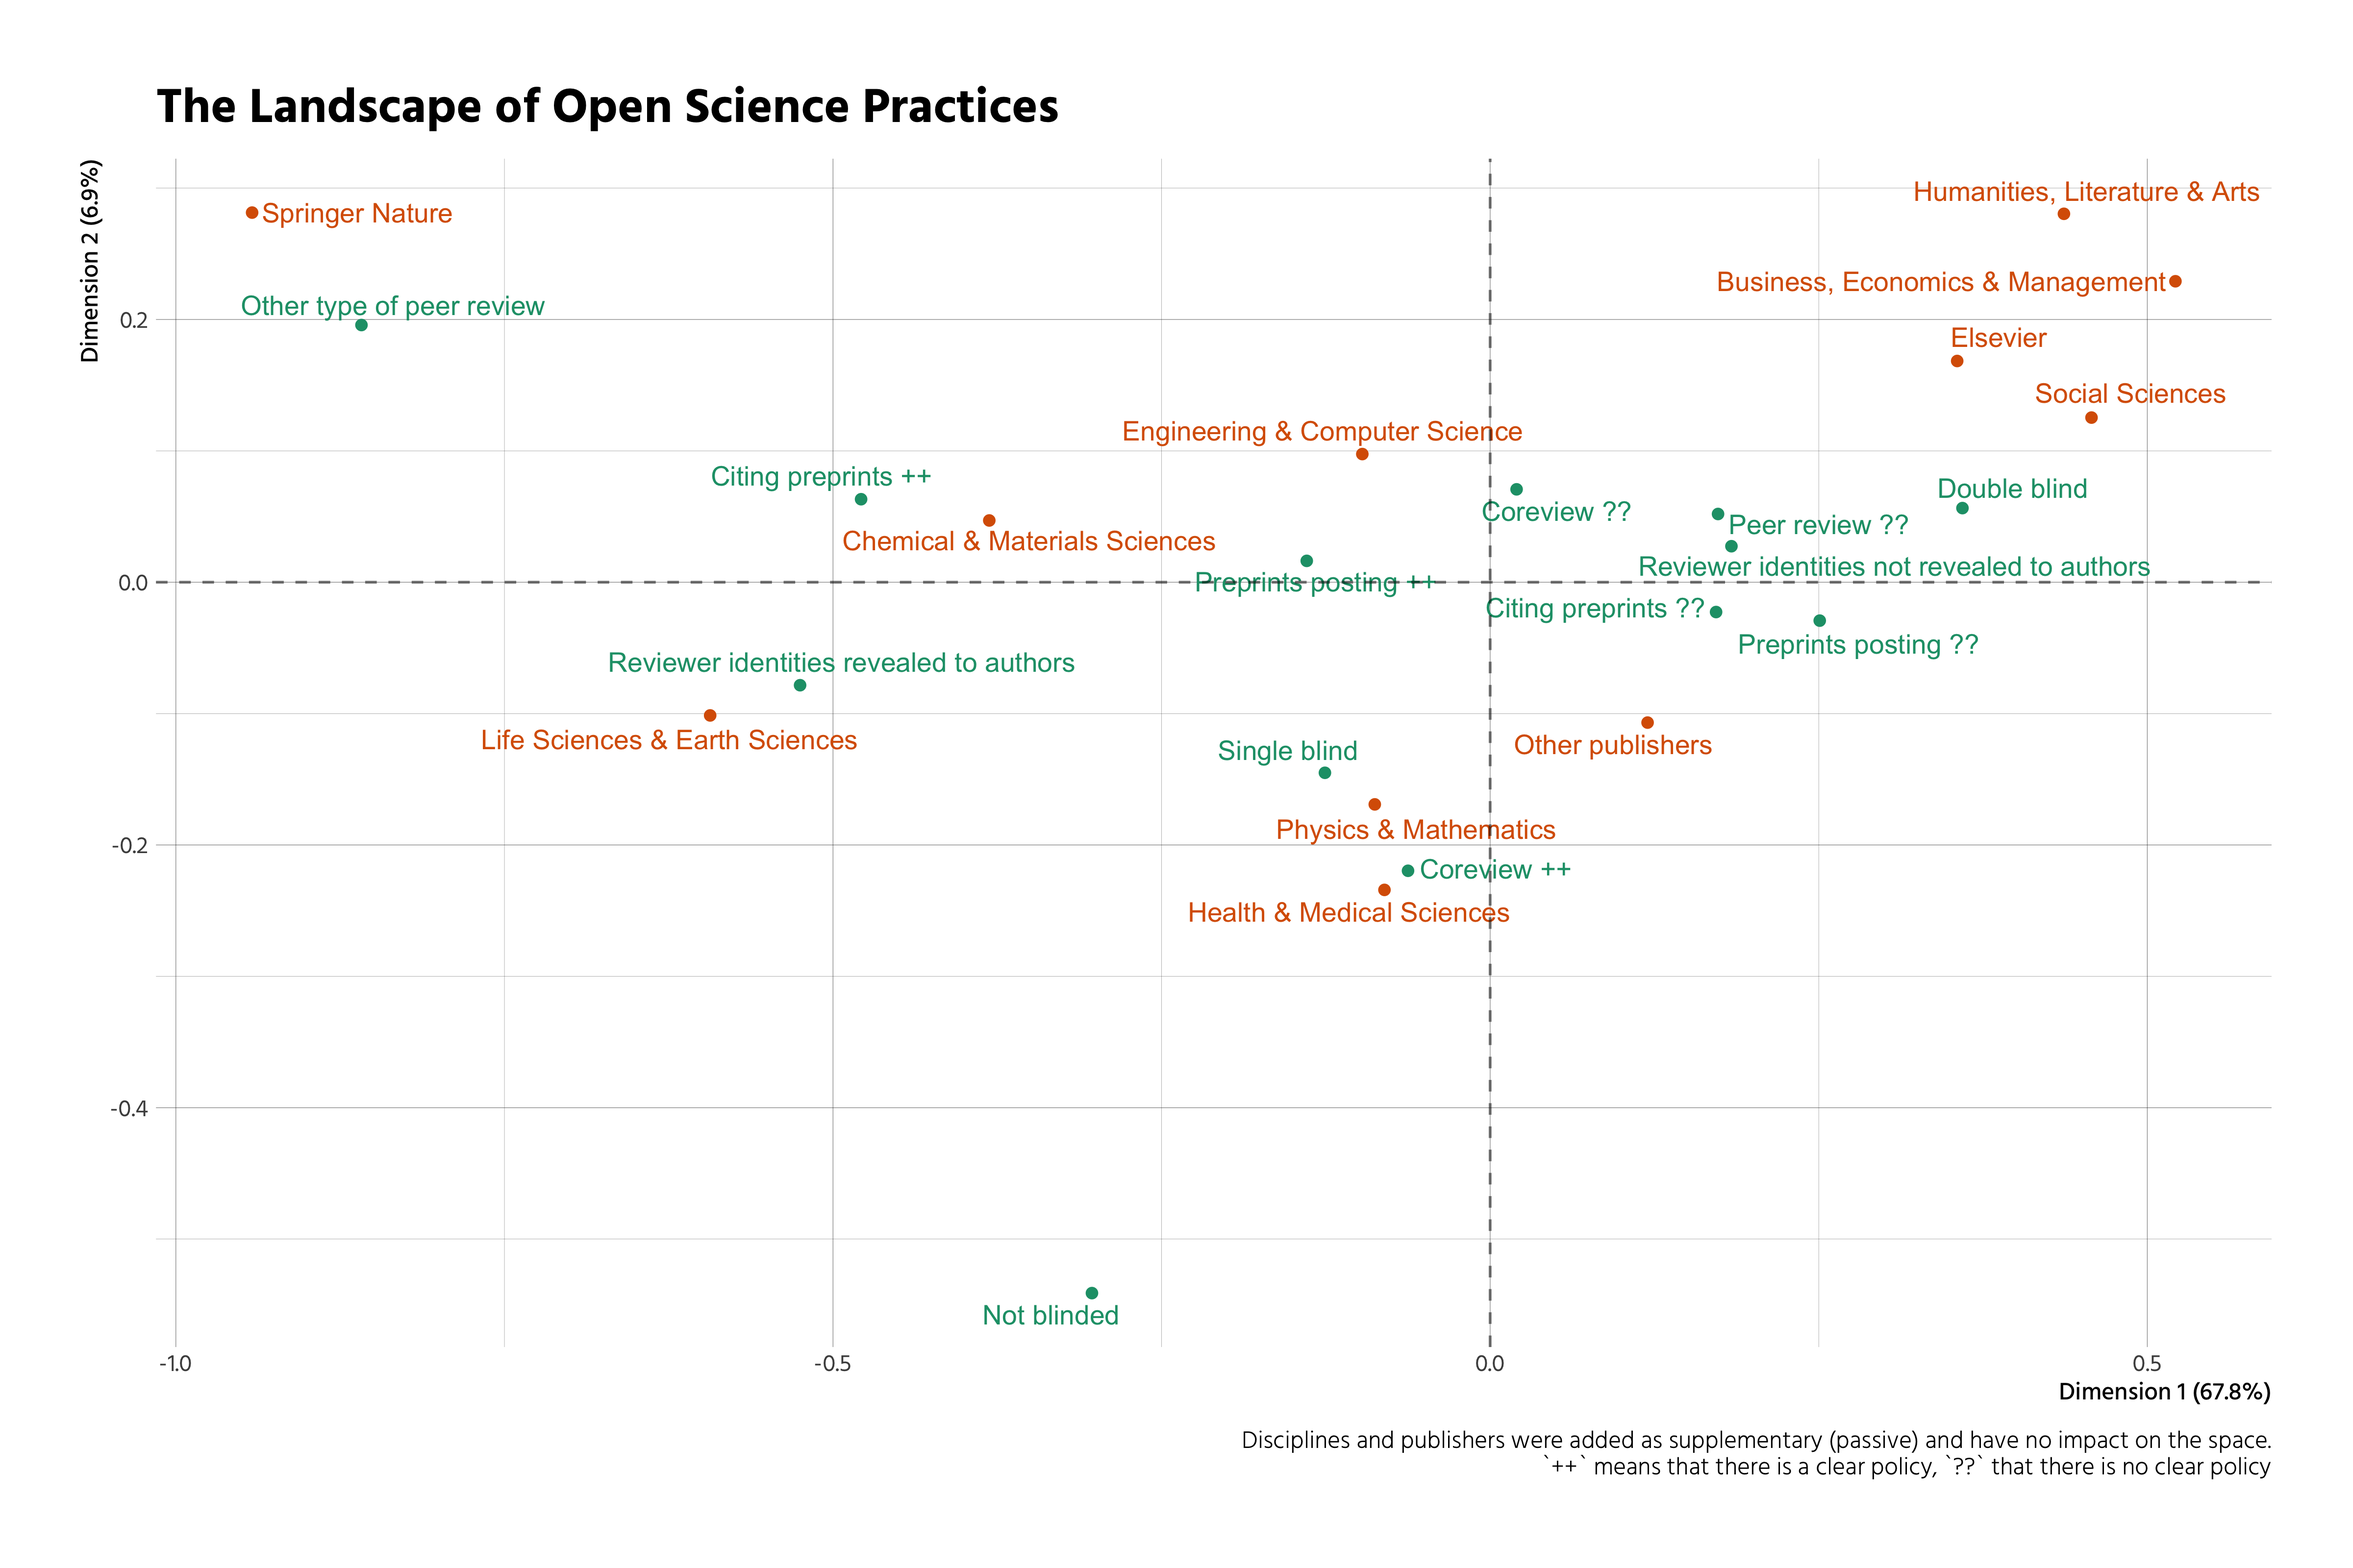
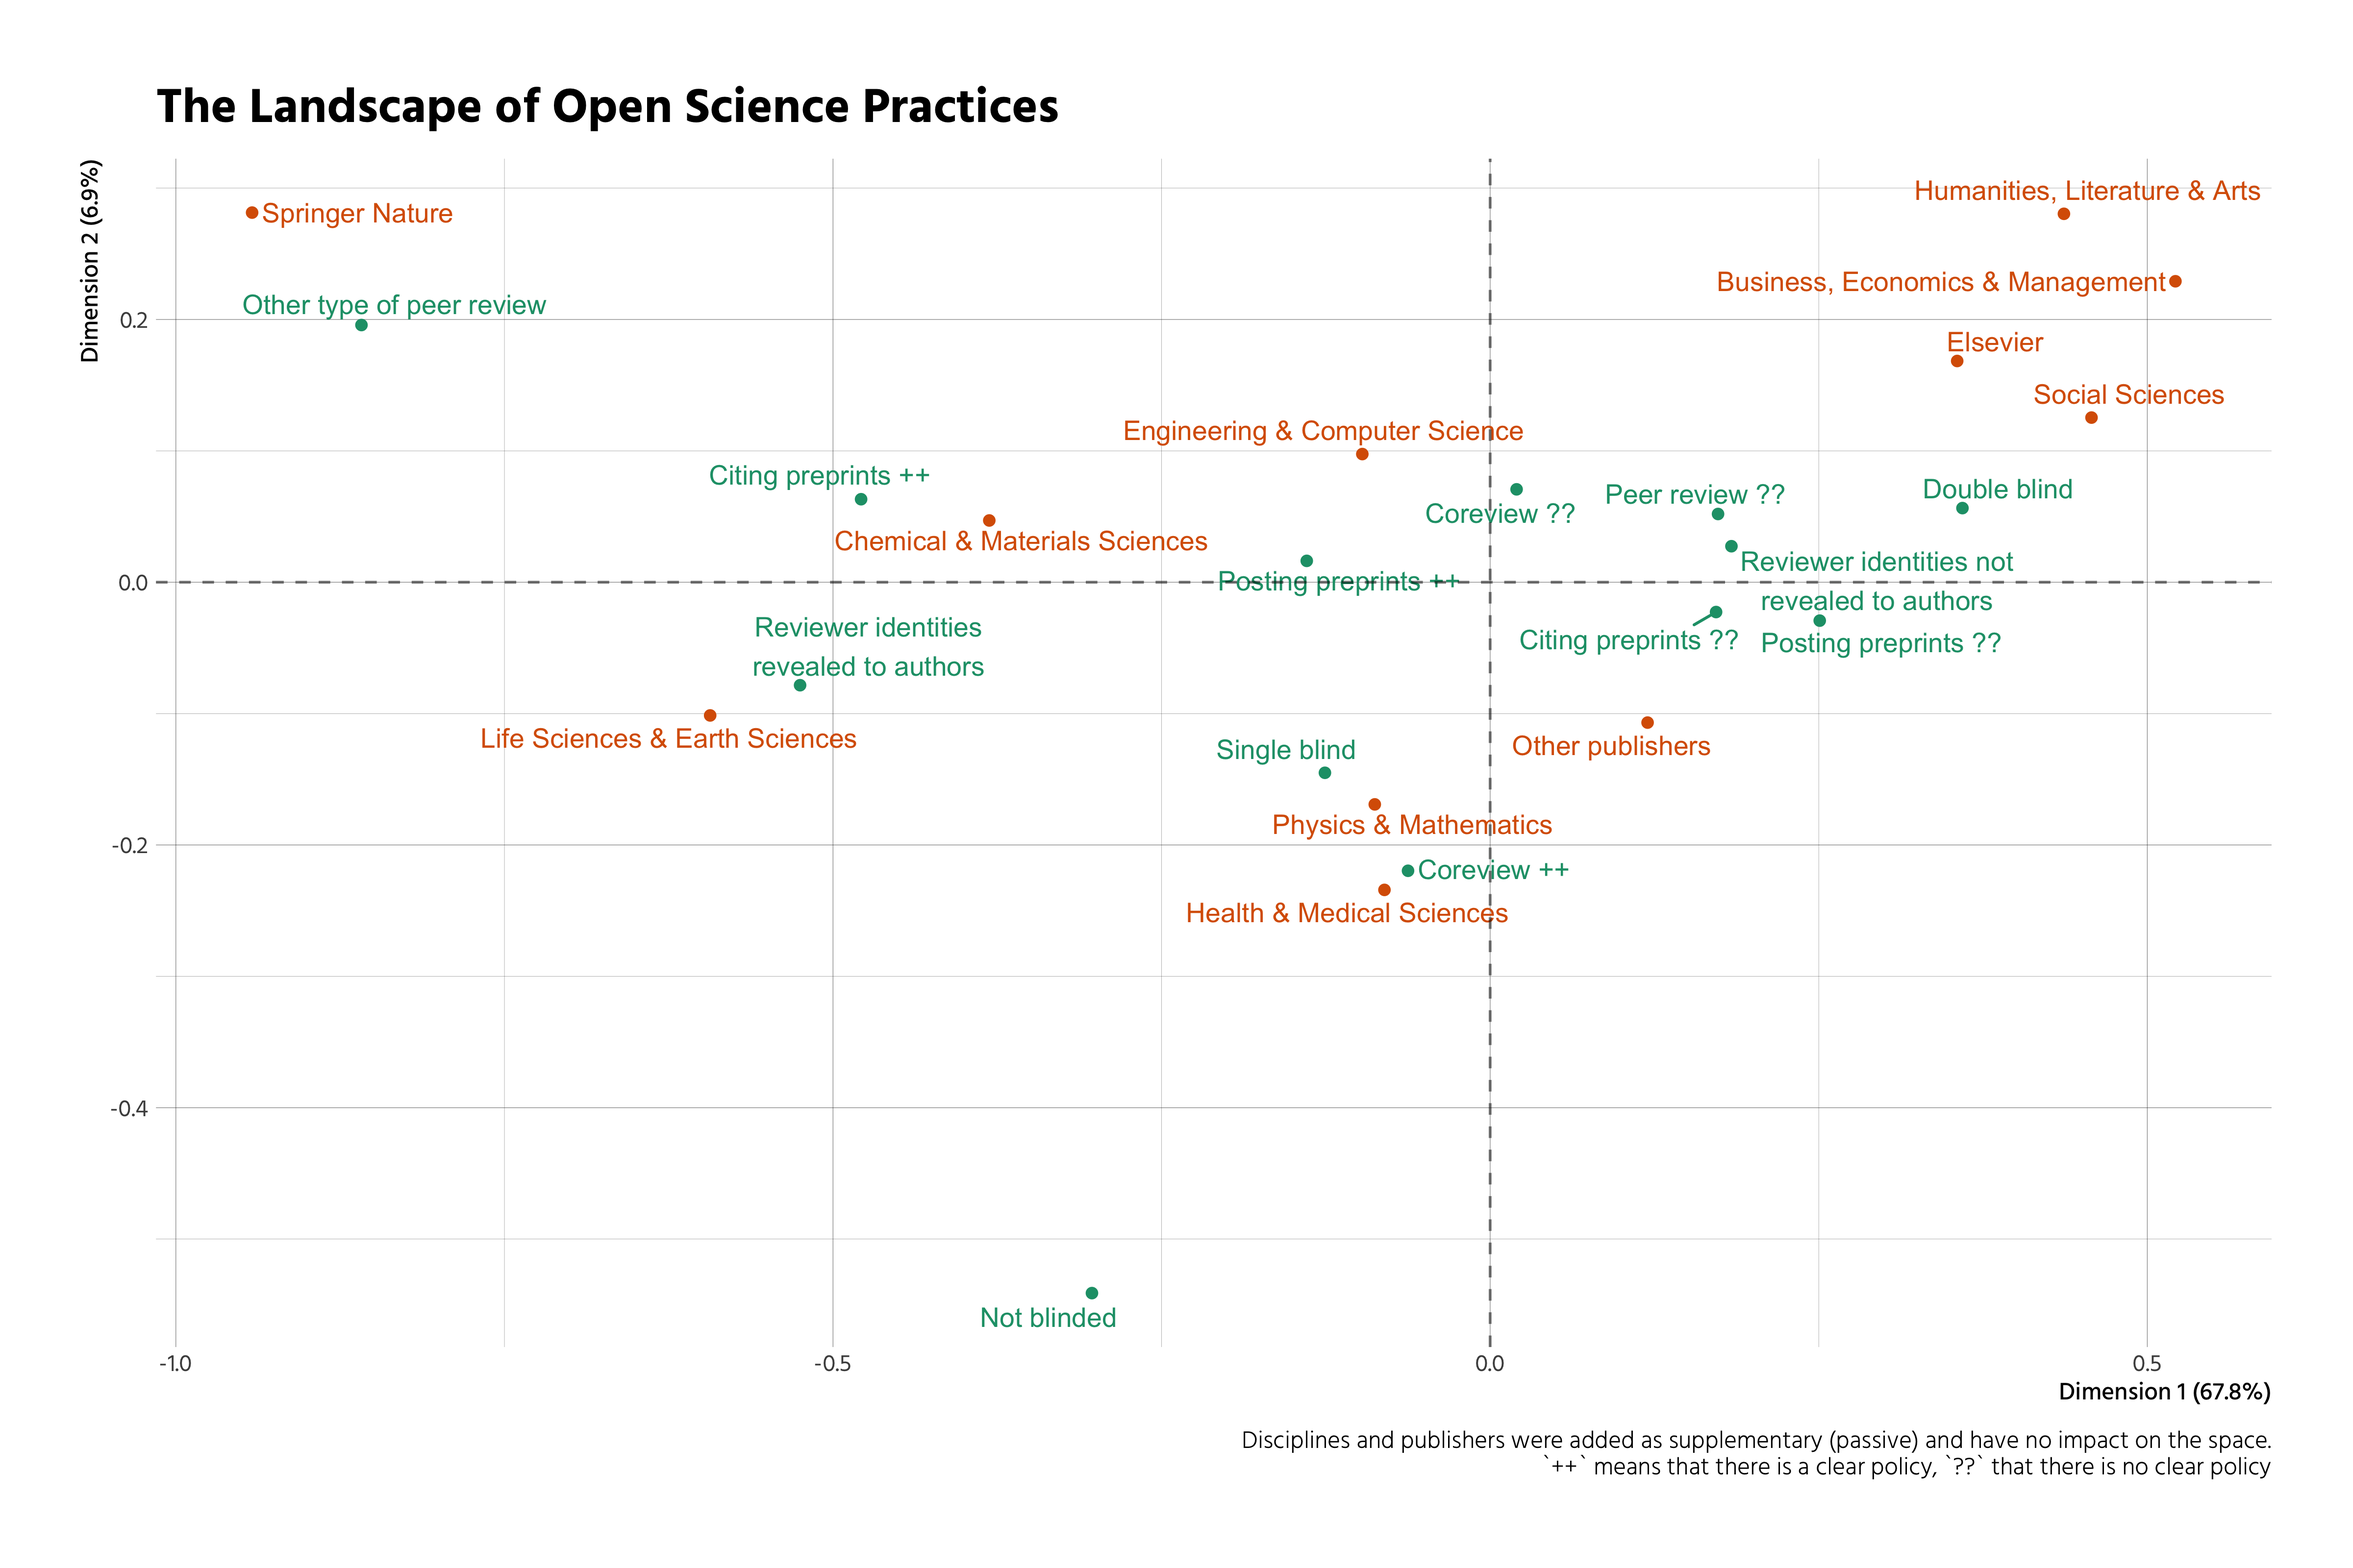
small improvements on MCA display

diff --git a/analysis-scripts/12-analysis-writeup.md b/analysis-scripts/12-analysis-writeup.md
@@ -1,7 +1,7 @@
 ---
 title: "Analysis Write-up"
 author: "Thomas Klebel"
-date: Last updated 2019-07-23
+date: Last updated 2019-07-24
 output: 
   bookdown::html_document2:
     number_sections: false
@@ -359,12 +359,14 @@ name                                           mass   inertia    k=1   correlati
 --------------------------------------------  -----  --------  -----  -----------------------  ----------------------  -----  -----------------------  ----------------------
 Coreview ??                                     151        27     20                       42                       1     71                      522                     107
 Coreview ++                                      49        84    -62                       42                       3   -220                      522                     332
-Preprints posting ??                             72        76    251                      769                      65    -29                       10                       9
-Preprints posting ++                            128        42   -140                      769                      36     16                       10                       5
+Posting preprints ??                             72        76    251                      769                      65    -29                       10                       9
+Posting preprints ++                            128        42   -140                      769                      36     16                       10                       5
 Citing preprints ??                             147        37    172                      821                      63    -23                       14                      11
 Citing preprints ++                              53       103   -479                      821                     175     63                       14                      30
-Reviewer identities not revealed to authors     148        39    184                      780                      72     27                       17                      16
-Reviewer identities revealed to authors          52       110   -525                      780                     207    -78                       17                      45
+Reviewer identities
+revealed to authors          52       110   -525                      780                     207    -78                       17                      45
+Reviewer identities not
+revealed to authors     148        39    184                      780                      72     27                       17                      16
 Single blind                                     64        75   -126                      268                      15   -145                      357                     191
 Double blind                                     49        94    359                      686                      91     56                       17                      22
 Not blinded                                       2       102   -303                      100                       3   -541                      320                      86
